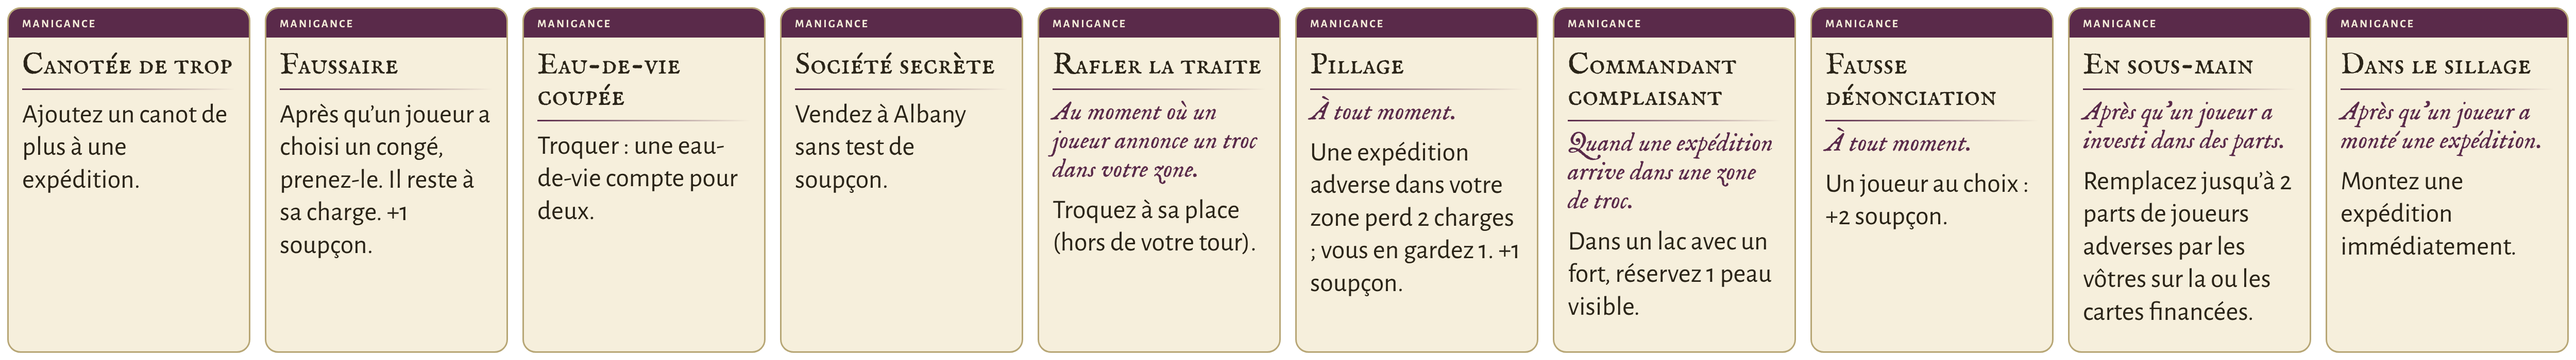
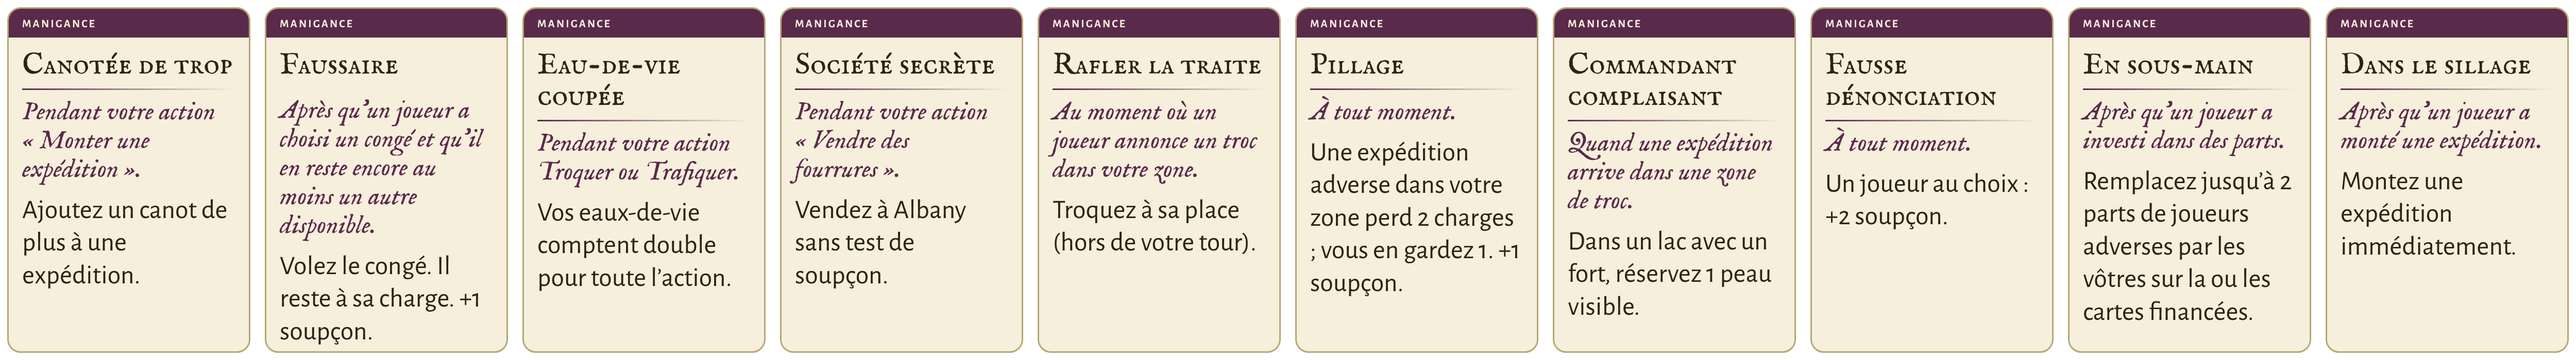
Manigances : moments ajoutés (Canotée de trop, Faussaire, Eau-de-vie coupée, Société secrète)
Claude-Session: https://claude.ai/code/session_01G5suCEi4wzsaTv916QiuTr

diff --git a/src/elements_v45.py b/src/elements_v45.py
@@ -60,10 +60,10 @@ ASSOC45 = [('Pierre Lestage', 'gros équipeur de Montréal', 'Chaque expédition
 DECKS['pers'] = sheet('deck_pers', 'Associé', [card_html('Associé', t, fx, q) for t, q, fx in ASSOC45], 'Associés', 'piochez 3 · gardez-en 1'); DECKS['pers']['names'] = [f'{t}, {q}' for t, q, fx in ASSOC45]
 # Manigances v45 (validées le 1er nov.) : 10 cartes, 1 exemplaire chacune
 KCOL['Manigance'] = '#5A2A4A'
-MANIG45 = [('Canotée de trop', '', 'Ajoutez un canot de plus à une expédition.'),
-           ('Faussaire', '', 'Après qu’un joueur a choisi un congé, prenez-le. Il reste à sa charge. +1 soupçon.'),
-           ('Eau-de-vie coupée', '', 'Troquer : une eau-de-vie compte pour deux.'),
-           ('Société secrète', '', 'Vendez à Albany sans test de soupçon.'),
+MANIG45 = [('Canotée de trop', 'Pendant votre action « Monter une expédition ».', 'Ajoutez un canot de plus à une expédition.'),
+           ('Faussaire', 'Après qu’un joueur a choisi un congé et qu’il en reste encore au moins un autre disponible.', 'Volez le congé. Il reste à sa charge. +1 soupçon.'),
+           ('Eau-de-vie coupée', 'Pendant votre action Troquer ou Trafiquer.', 'Vos eaux-de-vie comptent double pour toute l’action.'),
+           ('Société secrète', 'Pendant votre action « Vendre des fourrures ».', 'Vendez à Albany sans test de soupçon.'),
            ('Rafler la traite', 'Au moment où un joueur annonce un troc dans votre zone.', 'Troquez à sa place (hors de votre tour).'),
            ('Pillage', 'À tout moment.', 'Une expédition adverse dans votre zone perd 2 charges ; vous en gardez 1. +1 soupçon.'),
            ('Commandant complaisant', 'Quand une expédition arrive dans une zone de troc.', 'Dans un lac avec un fort, réservez 1 peau visible.'),
